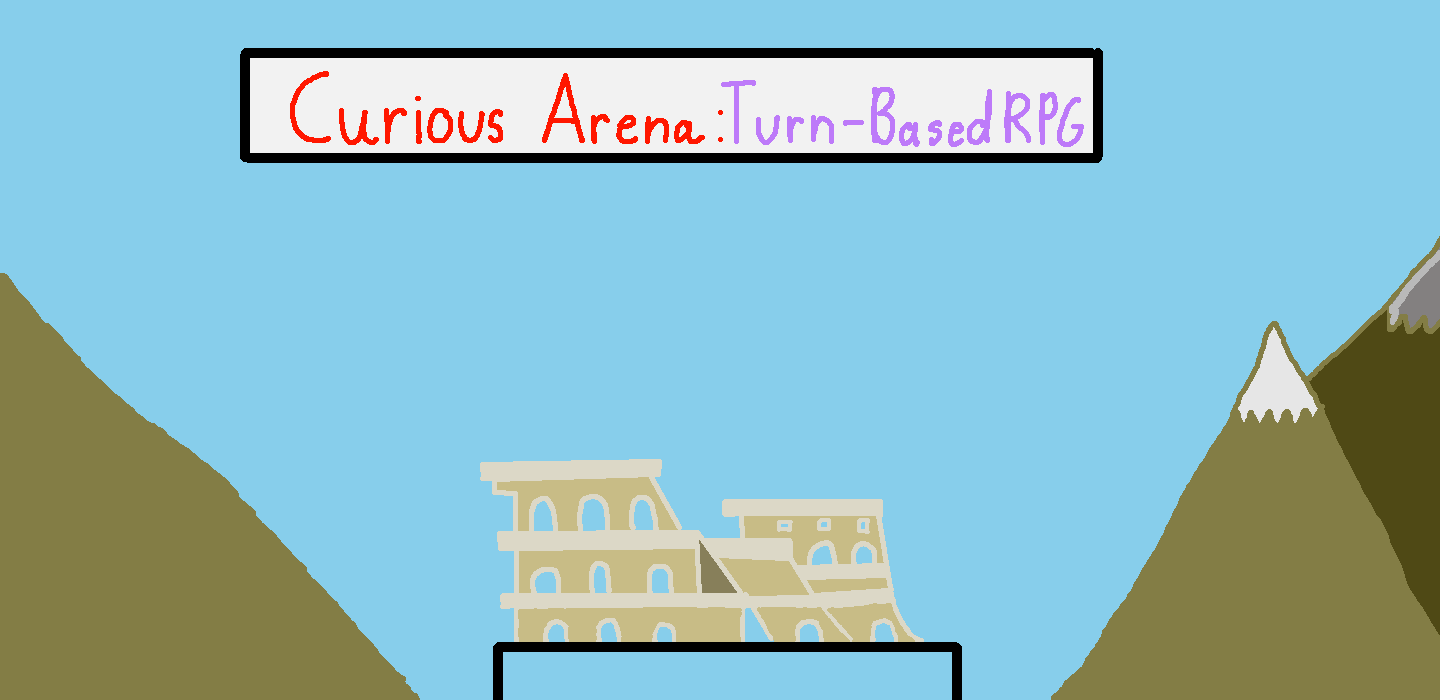
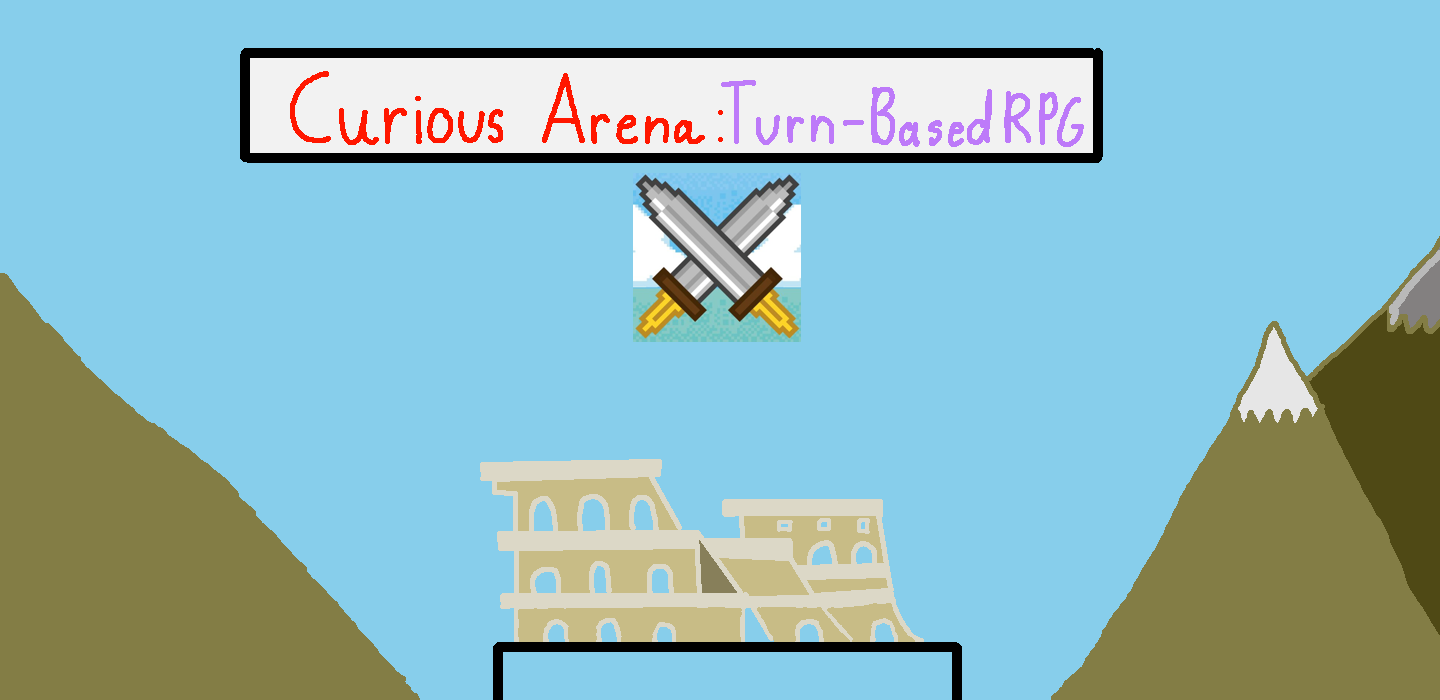
More updates

Changed region(s): [[0.4375, 0.24, 0.5625, 0.51]]

diff --git a/versionMay20/main.py b/versionMay20/main.py
@@ -20,7 +20,9 @@ goblinImage = pygame.image.load('Goblin.png')
 screen = pygame.display.set_mode((SCREEN_WIDTH, SCREEN_HEIGHT))
 pygame.display.set_caption('Hello World!')
 
-# Background
+# Backgrounds
+start_background = pygame.image.load('TitleScreen.png').convert_alpha()
+
 main_background = pygame.image.load('coluseumBackground.png').convert_alpha()
 main_background = pygame.transform.scale(main_background, (SCREEN_WIDTH, SCREEN_HEIGHT))  # Scale the background image
 
@@ -128,6 +130,12 @@ class BattleEnemy:
     def draw(self):
         screen.blit(self.image, self.rect)
 
+class Button():
+    def __init__(self, x, y, image, scale):
+        width = image.get_width()
+        height = image.get_height()
+        self.image = pygame.transform.scale(image, (int(width * scale), int(height * scale)))
+
 # Creating the "player" and "goblin" for the initial interaction.
 wizardPlayer = Player(150, 500, 'wizardplayerRight.png', 1.75)
 goblinEnemy = Enemy(1000, 375, 'Goblin.png', 2)
@@ -145,11 +153,12 @@ heart2 = Heart(225, 40, 'hearts2.png', 0.75)
 heart1 = Heart(225, 40, 'hearts1.png', 0.75)
 heart0 = Heart(225, 40, 'hearts0.png', 0.75)
 '''
+
 # Start of game loop
 clock = pygame.time.Clock()
 running = True
 playerDirection = pygame.image.load("wizardplayerRight.png")
-scene = "main" #Initialize the scene
+scene = "startScreen" #Initialize the scene
 
 while running:
     #Start of the game for when the player loads in
@@ -170,6 +179,10 @@ while running:
         player_velocity[1] = player_input["down"] - player_input["up"]
 
     #Scene Management:
+    if scene == "startScreen":
+        #Load Title Screen
+        screen.blit(start_background, (0,0))
+
     if scene == "main":
         # Update player position
         new_rect = wizardPlayer.update()
